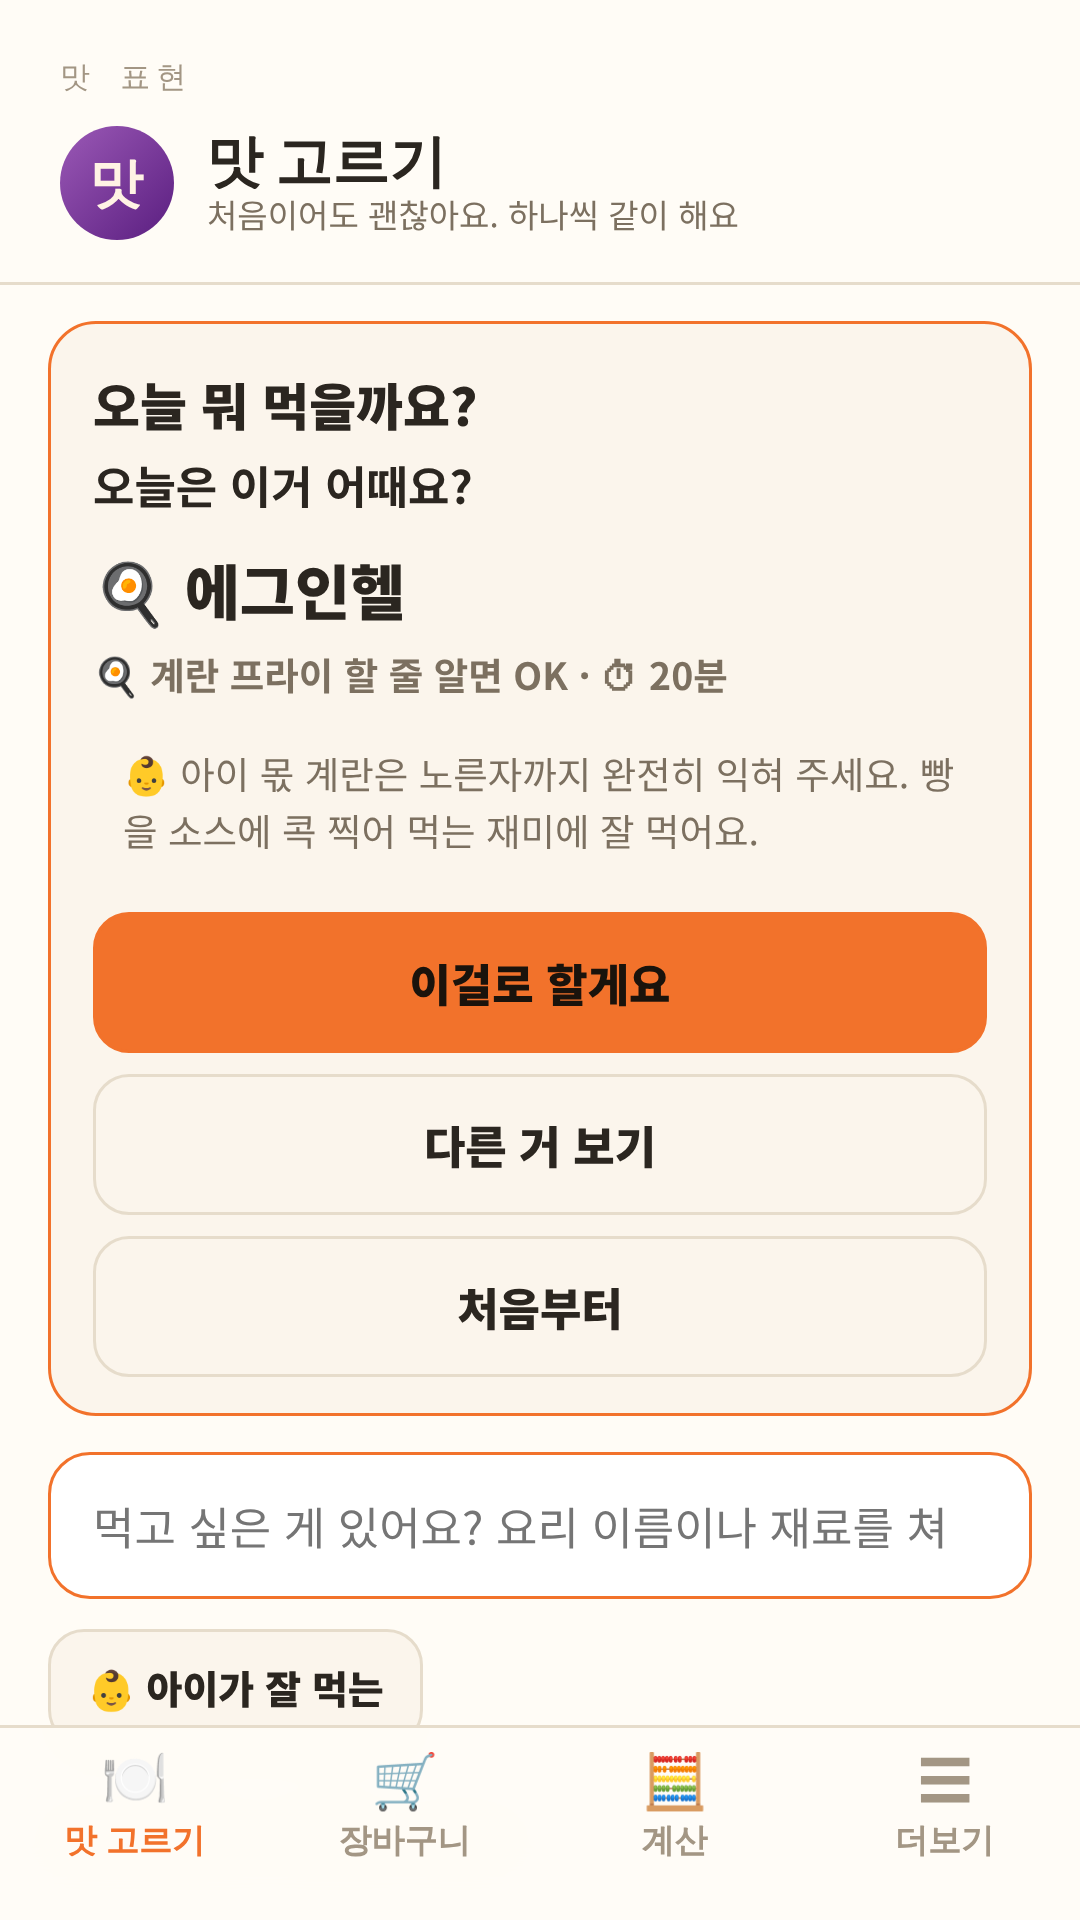
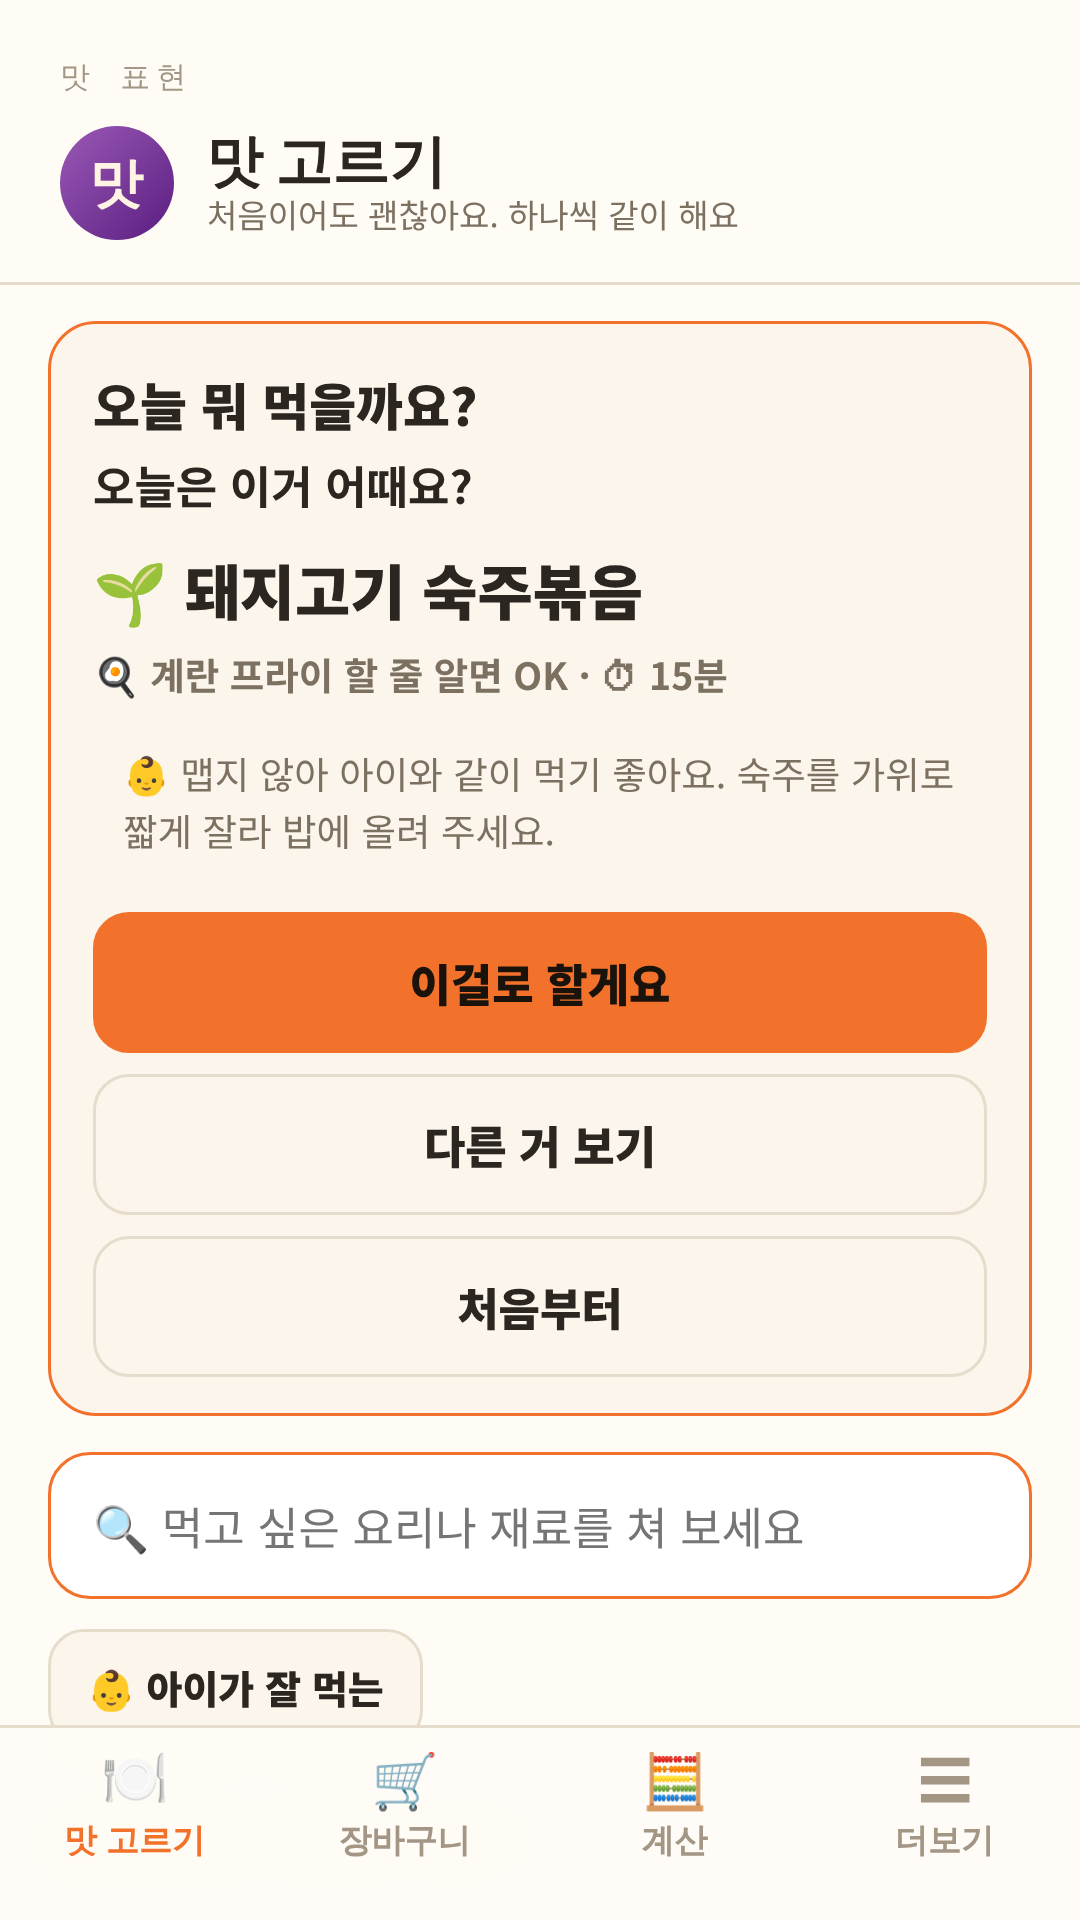
fix(cook): 찾기 칸 안내를 짧게('🔍 먹고 싶은 요리나 재료를 쳐 보세요'), 스토어 이미지 갱신
Claude-Session: https://claude.ai/code/session_017KWaKnS2P9UBMi724z59cy

diff --git a/cook/tests/home.test.js b/cook/tests/home.test.js
@@ -93,7 +93,7 @@ test("👶 아이가 잘 먹는 바로가기", () => withApp(async page => {
 }));
 
 test("placeholder·sub 문구", () => withApp(async page => {
-  assert.strictEqual(await page.getAttribute("#dishSearch", "placeholder"), "먹고 싶은 게 있어요? 요리 이름이나 재료를 쳐 보세요");
+  assert.strictEqual(await page.getAttribute("#dishSearch", "placeholder"), "🔍 먹고 싶은 요리나 재료를 쳐 보세요");
   assert.strictEqual((await page.innerText("#view-sense .hd .sub")).trim(), "처음이어도 괜찮아요. 하나씩 같이 해요");
 }));
 

diff --git a/cook/index.html b/cook/index.html
@@ -698,7 +698,7 @@
     </div>
     <div class="today" id="todayPick" aria-live="polite"></div>
     <div class="dish-find">
-      <input type="search" id="dishSearch" placeholder="먹고 싶은 게 있어요? 요리 이름이나 재료를 쳐 보세요" aria-label="요리 찾기" autocomplete="off" />
+      <input type="search" id="dishSearch" placeholder="🔍 먹고 싶은 요리나 재료를 쳐 보세요" aria-label="요리 찾기" autocomplete="off" />
       <div id="dishResults"></div>
     </div>
     <div class="savedhdr sense-or">또는 땡기는 맛으로 고르기</div>
